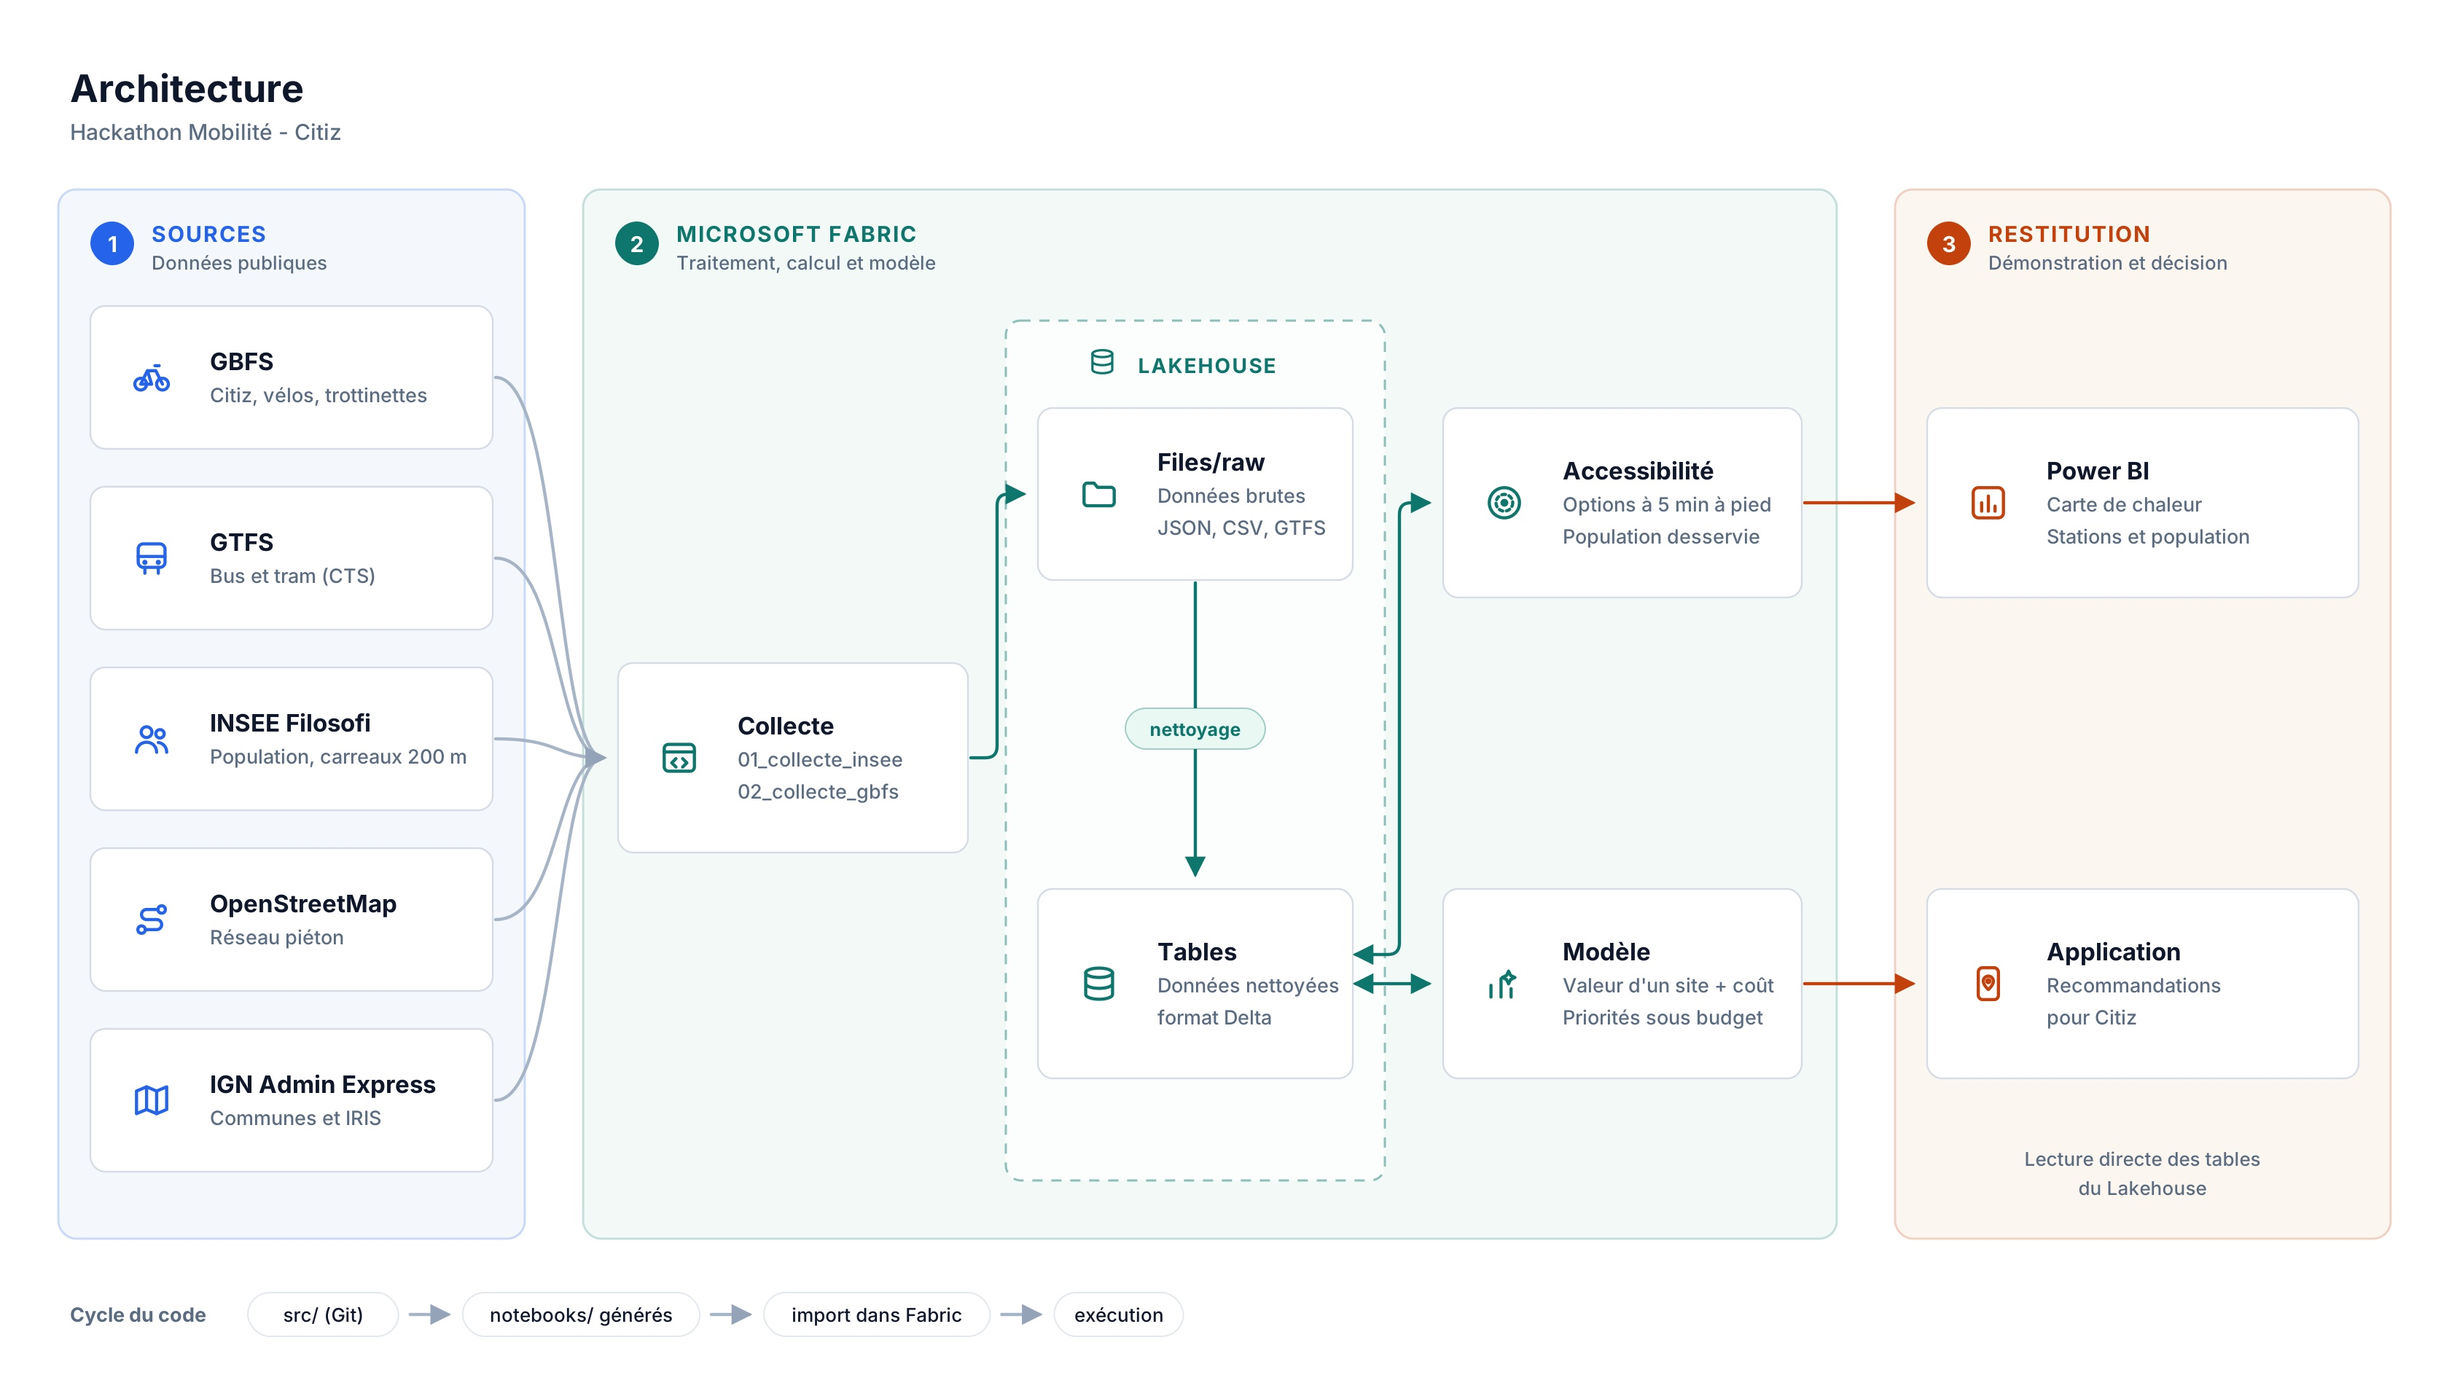
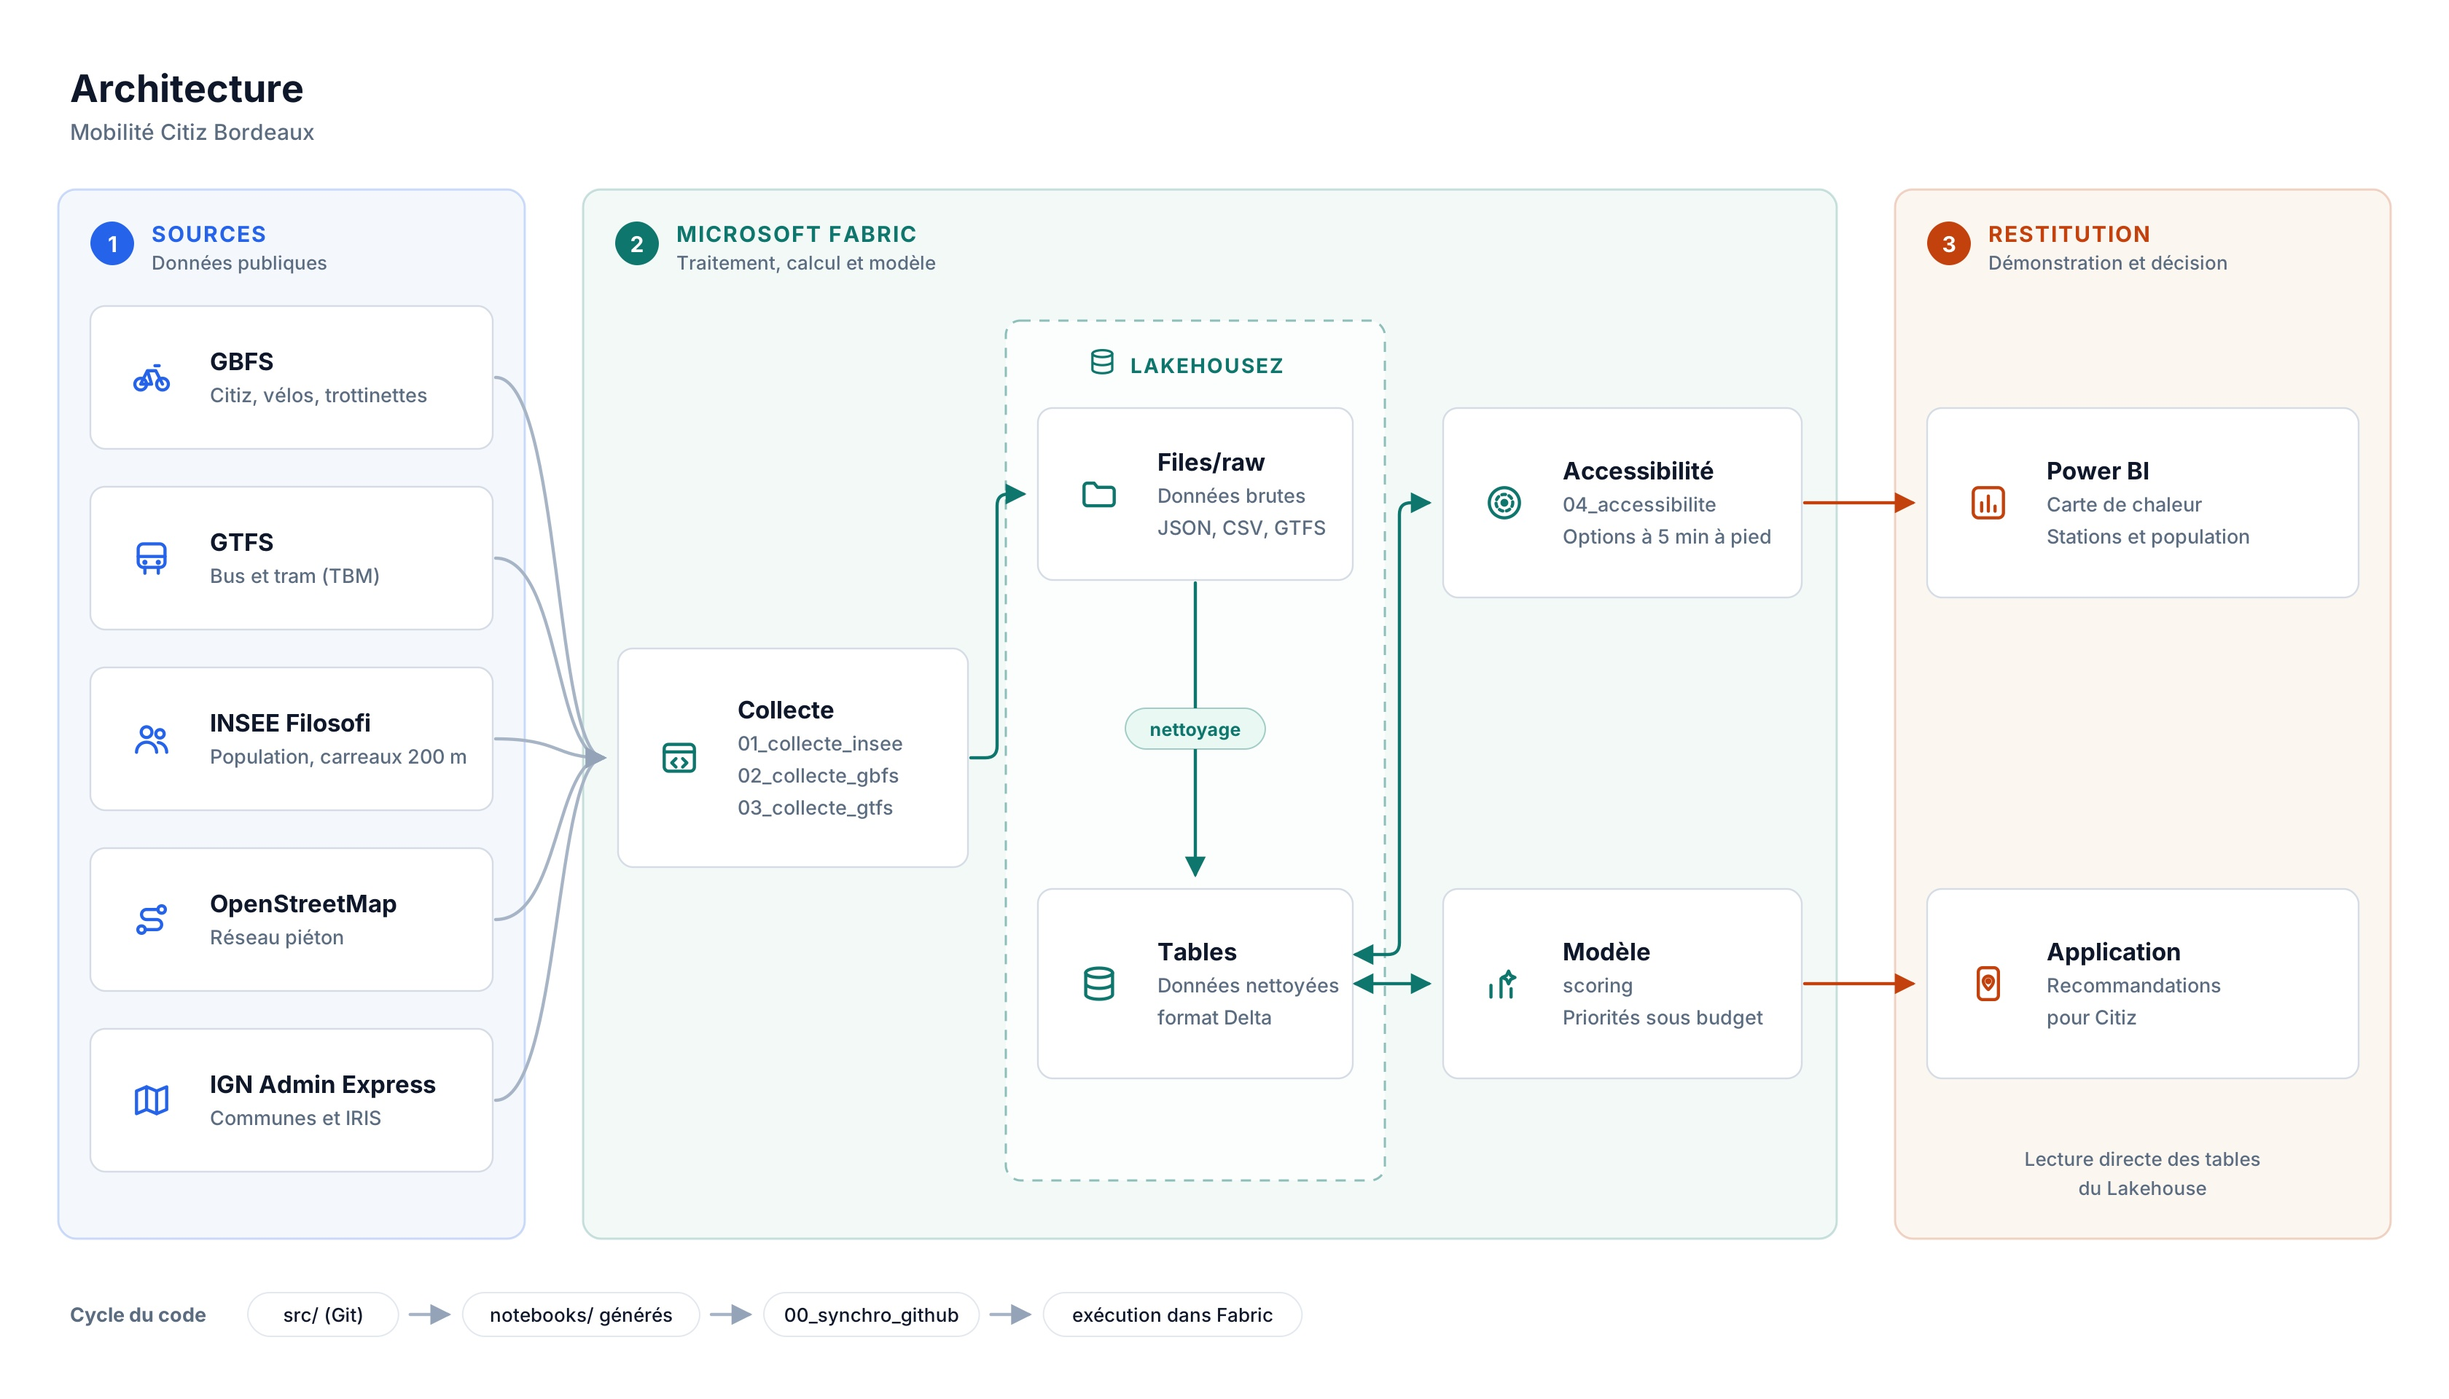
feat(docs): mise à jour du document d'architecture pour refléter les changements de Bordeaux Métropole et améliorer la clarté des sections

diff --git a/docs/architecture.md b/docs/architecture.md
@@ -13,112 +13,93 @@ La chaîne de traitement va des données publiques brutes jusqu'à une liste d'e
 
 ## 2. Zone d'étude
 
-Le projet est limité à **l'Eurométropole de Strasbourg** :
-
-- Citiz y est historiquement implanté, ce qui donne des stations existantes pour entraîner et valider le modèle ;
-- l'offre de transport y est variée (bus, tram, vélos en libre-service, autopartage) ;
-- les volumes de données restent raisonnables pour 2,5 jours.
-
-La méthode est générique : il suffit de changer la zone dans les paramètres pour l'appliquer à une autre ville.
+Le projet est limité à **Bordeaux Métropole**. La méthode est générique : il suffit de changer la zone dans les paramètres pour l'appliquer à une autre ville.
 
 ## 3. Vue d'ensemble
-
-La solution est organisée en trois blocs :
 
 | Bloc | Rôle | Outils |
 |---|---|---|
 | Sources | Données publiques ouvertes | transport.data.gouv.fr, INSEE, OpenStreetMap, IGN |
-| Traitement | Collecte, nettoyage, calculs, modèle | Microsoft Fabric (notebooks PySpark, Lakehouse) |
+| Traitement | Collecte, nettoyage, calculs, modèle | Microsoft Fabric (notebooks, Lakehouse) |
 | Restitution | Carte, indicateurs, recommandations | Power BI, `app/` |
+
+Dans Fabric, le pipeline est organisé dans le flux de tâches **« Mobilite Citiz Bordeaux »** de l'espace de travail **HackathonZ** :
+
+```
+Get data → Store data → Exploratory data analysis → Develop and train models
+→ Evaluate and score models → Apply the best model → Expose insight
+```
 
 ## 4. Sources de données
 
-| Source | Contenu | Format | Accès |
-|---|---|---|---|
-| Citiz Grand Est | Stations d'autopartage | GBFS v3 (JSON) | `https://backend.citiz.fr/public/provider/1/gbfs/v3.0/gbfs.json` |
-| transport.data.gouv.fr | Vélos et trottinettes en libre-service | GBFS (JSON) | API, flux temps réel |
-| transport.data.gouv.fr | Arrêts de bus et tram (CTS) | GTFS (zip de CSV) | Téléchargement |
-| INSEE Filosofi | Population et revenus par carreau de 200 m | CSV / GeoPackage | Téléchargement |
-| OpenStreetMap (Geofabrik) | Réseau de rues et chemins piétons | PBF | Téléchargement, extrait Alsace |
-| IGN Admin Express | Limites des communes et IRIS | GeoPackage | Téléchargement |
+| Source | Contenu | Format |
+|---|---|---|
+| transport.data.gouv.fr | Stations Citiz, vélos et trottinettes en libre-service | GBFS (JSON, temps réel) |
+| transport.data.gouv.fr | Arrêts de bus et tram (TBM) | GTFS (zip de CSV) |
+| INSEE Filosofi | Population et revenus par carreau de 200 m | CSV / GeoPackage |
+| OpenStreetMap (Geofabrik) | Réseau de rues et chemins piétons | PBF |
+| IGN Admin Express | Limites des communes et IRIS | GeoPackage |
 
 Le détail des sources, avec liens et licences, est dans [`DATA_SOURCES.md`](../DATA_SOURCES.md).
 
 ## 5. Traitement dans Microsoft Fabric
 
-### 5.1 Espace de travail
+### 5.1 Lakehouse
 
-Tous les éléments sont dans un même espace de travail Fabric partagé par l'équipe :
-
-- un **Lakehouse** (`LakeHouseMicrosoft`) ;
-- les **notebooks** de collecte, de calcul et de modélisation ;
-- le **rapport Power BI**.
-
-Chaque notebook est rattaché au Lakehouse comme Lakehouse par défaut.
-
-### 5.2 Lakehouse
+Tous les notebooks utilisent **LakeHouseZ** comme Lakehouse par défaut.
 
 ```
-LakeHouseMicrosoft
+LakeHouseZ
 ├── Files/
 │   └── raw/          données brutes, telles que téléchargées
-│       ├── gbfs/
-│       ├── gtfs/
-│       ├── insee/
-│       └── osm/
 └── Tables/           tables Delta nettoyées, utilisées par les calculs et Power BI
 ```
 
-- `Files/raw/` garde une copie des fichiers d'origine, pour pouvoir relancer les traitements sans tout retélécharger.
+- `Files/raw/` garde une copie des fichiers d'origine, pour relancer les traitements sans tout retélécharger.
 - `Tables/` contient les données propres, au format Delta, lisibles directement par Power BI.
 
-### 5.3 Notebooks
+### 5.2 Notebooks
 
-| Notebook | Rôle | Lit | Écrit |
-|---|---|---|---|
-| `01_collecte_insee` | Télécharge et filtre la population par carreau | INSEE | `Files/raw/insee`, `population_carreaux` |
-| `02_collecte_gbfs` | Récupère les stations Citiz, vélos, trottinettes | Flux GBFS | `Files/raw/gbfs`, `stations` |
-| `03_...` | Arrêts de bus et tram | GTFS | `stations` |
-| `04_...` | Calcul de l'accessibilité | `stations`, `population_carreaux` | `accessibilite` |
-| `05_...` | Modèle et optimisation | tables précédentes | `recommandations` |
+| Notebook | Étape du flux | Rôle |
+|---|---|---|
+| `00_synchro_github` | Get data | Récupère la dernière version du code depuis le dépôt GitHub |
+| `01_collecte_insee` | Get data | Population par carreau de 200 m |
+| `02_collecte_gbfs` | Get data | Stations Citiz, vélos, trottinettes |
+| `03_collecte_gtfs` | Get data | Arrêts de bus et tram |
+| `04_accessibilite` | Exploratory data analysis | Options de mobilité à 5 min à pied, population desservie |
+| `scoring` | Evaluate and score models | Score des emplacements candidats |
 
-Les notebooks `03` à `05` sont à compléter avec leurs noms définitifs.
-
-### 5.4 Calcul de l'accessibilité
+### 5.3 Calcul de l'accessibilité
 
 - Une station est considérée comme accessible si elle est à **moins de 5 minutes à pied**, soit environ **400 m**.
-- La distance est calculée à vol d'oiseau dans une première version, puis sur le réseau piéton OpenStreetMap pour une distance de marche réelle.
 - Pour chaque carreau de 200 m, on calcule le **nombre d'options de mobilité accessibles par habitant**.
 - Pour chaque station, on calcule la **population desservie** dans son rayon de 5 minutes.
 
-### 5.5 Modèle et optimisation
+### 5.4 Modèle et recommandations
 
-1. **Prédiction** : à partir des stations Citiz existantes, le modèle apprend ce qui caractérise un bon emplacement (densité, revenus, motorisation, offre de transport déjà présente) et attribue un score à chaque emplacement candidat.
-2. **Coût** : un coût estimé est associé à chaque type d'équipement (station d'autopartage, station de vélos, arrêt de bus).
-3. **Optimisation** : on sélectionne les emplacements qui maximisent la population nouvellement desservie sous contrainte de budget, sans compter deux fois les habitants déjà couverts (problème de couverture maximale).
+1. **Prédiction** : le modèle attribue un score à chaque emplacement candidat à partir des caractéristiques du quartier (population, revenus, offre de transport existante).
+2. **Coût** : un coût estimé est associé à chaque type d'équipement.
+3. **Optimisation** : on sélectionne les emplacements qui maximisent la population nouvellement desservie sous contrainte de budget, sans compter deux fois les habitants déjà couverts.
 
-Le modèle est évalué par validation croisée sur les stations existantes. Les métriques et les limites sont détaillées dans la documentation du modèle.
+Méthode d'évaluation et métriques : à compléter.
 
 ## 6. Restitution
 
-Le rapport Power BI se connecte directement aux tables du Lakehouse et contient trois pages :
+Le rapport Power BI (étape **Expose insight**) se connecte directement aux tables de LakeHouseZ :
 
-1. **Carte de chaleur** : accès à la mobilité par carreau, du moins au mieux desservi.
-2. **Stations** : stations existantes par type, avec la population desservie par chacune.
-3. **Recommandations** : emplacements proposés, coût, habitants nouvellement desservis, total selon le budget choisi.
-
-Le dossier `app/` contient l'interface de démonstration.
+1. **Carte de chaleur** : accès à la mobilité par carreau.
+2. **Stations** : stations existantes par type, avec la population desservie.
+3. **Recommandations** : emplacements proposés, coût, habitants nouvellement desservis.
 
 ## 7. Tables échangées
 
-| Table | Créée par | Utilisée par | Colonnes |
-|---|---|---|---|
-| `stations` | collecte GBFS / GTFS | calcul, Power BI | id, type, nom, lat, lon |
-| `population_carreaux` | collecte INSEE | calcul, modèle | id_carreau, lat, lon, population |
-| `accessibilite` | calcul | modèle, Power BI | id_carreau, nb_options, options_par_habitant |
-| `recommandations` | modèle | Power BI, app | lat, lon, type, cout, personnes_gagnees, rang |
-
-Noms provisoires, à confirmer avec l'équipe. Toute modification d'un nom de table ou de colonne doit être signalée, car elle impacte les étapes suivantes.
+| Table | Créée par | Colonnes |
+|---|---|---|
+| à compléter | `01_collecte_insee` | |
+| à compléter | `02_collecte_gbfs` | |
+| à compléter | `03_collecte_gtfs` | |
+| à compléter | `04_accessibilite` | |
+| à compléter | `scoring` | |
 
 ## 8. Organisation du dépôt
 
@@ -128,9 +109,9 @@ Noms provisoires, à confirmer avec l'équipe. Toute modification d'un nom de ta
 ├── README.md           présentation et lancement du projet
 ├── requirements.txt    dépendances Python
 ├── src/                code source (collecte, calculs, modèle)
-├── notebooks/          notebooks générés depuis src/, importés dans Fabric
+├── notebooks/          notebooks générés depuis src/
 ├── app/                interface de démonstration
-├── data/               petits fichiers d'exemple (pas de données volumineuses)
+├── data/               petits fichiers d'exemple
 ├── docs/               documentation technique
 ├── fabric/             éléments synchronisés depuis Fabric
 └── slides/             présentation
@@ -138,11 +119,10 @@ Noms provisoires, à confirmer avec l'équipe. Toute modification d'un nom de ta
 
 ## 9. Workflow de développement
 
-- Le code est écrit dans `src/`. Les notebooks sont générés à partir de ce code, puis importés dans Fabric.
+- Le code est écrit dans `src/`, puis les notebooks sont générés et synchronisés dans Fabric avec `00_synchro_github`.
 - Les notebooks ne sont **pas modifiés directement dans Fabric** : on les y exécute seulement.
 - Chaque membre travaille sur une branche `feature/...`, puis ouvre une Pull Request vers `dev`.
-- Les Pull Requests sont relues avant fusion.
-- `dev` est fusionnée dans `main` pour la version finale de la démo.
+- `dev` est fusionnée dans `main` pour la version finale.
 
 ```
 feature/...  →  dev  →  main
@@ -152,25 +132,25 @@ feature/...  →  dev  →  main
 
 1. Créer un espace de travail Fabric avec une capacité active.
 2. Créer un Lakehouse.
-3. Importer les notebooks du dossier `notebooks/` (Importer → Notebook → À partir de cet ordinateur).
-4. Rattacher chaque notebook au Lakehouse (Explorateur → Ajouter des éléments de données → Catalogue OneLake).
-5. Exécuter les notebooks dans l'ordre : `01`, `02`, puis les suivants.
-6. Ouvrir le rapport Power BI connecté au Lakehouse.
+3. Importer les notebooks et les rattacher au Lakehouse (Explorateur → Ajouter des éléments de données → Catalogue OneLake).
+4. Exécuter dans l'ordre : `00_synchro_github`, `01_collecte_insee`, `02_collecte_gbfs`, `03_collecte_gtfs`, `04_accessibilite`, `scoring`.
+5. Ouvrir le rapport Power BI connecté au Lakehouse.
 
 ## 11. Choix techniques
 
 | Choix | Raison |
 |---|---|
-| Microsoft Fabric | Calcul dans le cloud (pas de limite liée aux machines de l'équipe), stockage partagé, Power BI intégré |
+| Microsoft Fabric | Calcul dans le cloud, stockage partagé, Power BI intégré |
 | Lakehouse + Delta | Un seul point de stockage pour tous les notebooks et pour Power BI |
-| Code dans `src/`, notebooks générés | Code versionné proprement dans Git, notebooks toujours à jour |
+| Flux de tâches Fabric | Pipeline lisible, chaque notebook rattaché à son étape |
+| Code dans `src/`, synchronisé depuis GitHub | Code versionné proprement, notebooks toujours à jour |
 | Carreaux INSEE 200 m | Maille fine, adaptée à une distance de 5 min à pied |
-| Restriction à une métropole | Volumes maîtrisés, résultats vérifiables, méthode réutilisable ailleurs |
+| Restriction à Bordeaux Métropole | Volumes maîtrisés, résultats vérifiables, méthode réutilisable |
 
 ## 12. Limites et points d'attention
 
-- **Distances** : le calcul à vol d'oiseau surestime l'accessibilité ; le réseau piéton OSM est plus réaliste mais plus coûteux à calculer.
+- **Distances** : le calcul à vol d'oiseau surestime l'accessibilité ; le réseau piéton est plus réaliste mais plus coûteux à calculer.
 - **Données temps réel** : les flux GBFS donnent l'état à un instant donné ; l'usage réel des stations n'est pas publié.
 - **Coûts** : les coûts par équipement sont des estimations.
-- **Vie privée** : les carreaux INSEE peu peuplés sont regroupés ou masqués pour ne pas exposer de petits groupes d'habitants.
-- **Équité** : le classement tient compte des zones peu desservies pour ne pas favoriser uniquement les quartiers déjà bien équipés.
+- **Vie privée** : les carreaux INSEE peu peuplés ne doivent pas permettre d'identifier de petits groupes d'habitants.
+- **Équité** : le classement doit tenir compte des zones peu desservies, et pas seulement des quartiers déjà bien équipés.![alt text](architecture.jpg)
